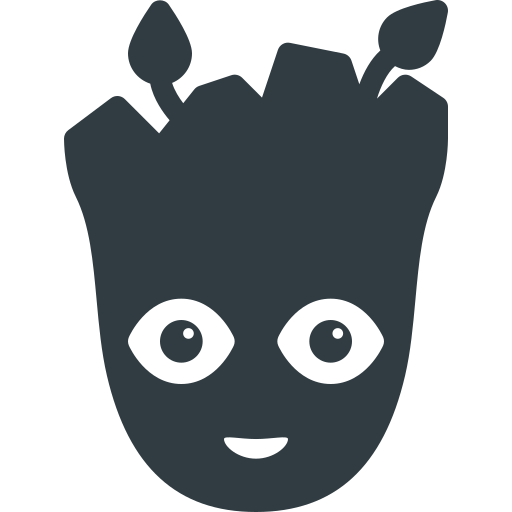
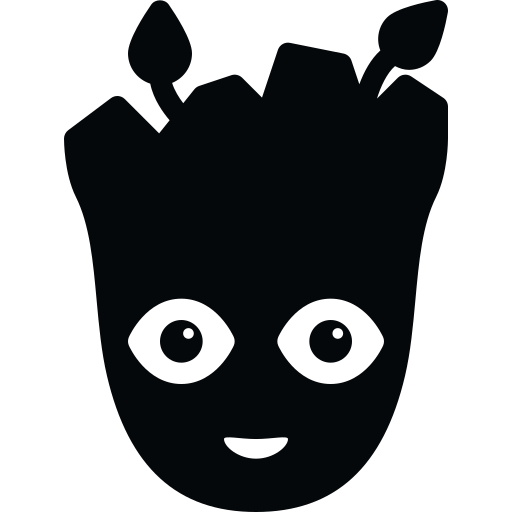
Add dropdown menus and some header and footer styles

diff --git a/final/css/styles.css b/final/css/styles.css
@@ -1,4 +1,4 @@
-/* JM, 12/04/25 */
+/* JM, 12/06/25 */
 /* Final Project, WEB 238 */
 
 :root {
@@ -6,6 +6,13 @@
   font-family: "Ubuntu", "Segoe UI", Tahoma, Geneva, Verdana, sans-serif;
   box-sizing: border-box;
   line-height: 1.4;
+
+  --dark-moss-green: hsl(88, 40%, 26%);
+  --dark-olive-green: hsl(85, 33%, 33%);
+  --coffee: hsl(28, 28%, 32%);
+  --artichoke: hsl(40, 15%, 54%);
+  --boy-red: hsl(44, 21%, 34%);
+  --black: hsl(0, 0%, 7%);
 }
 
 *,
@@ -48,6 +55,7 @@ figcaption {
 
 #wrapper {
   max-width: 100%;
+  overflow-y: hidden;
   display: grid;
   grid-template-columns: [left] auto [content] 1fr auto [right];
 }
@@ -83,12 +91,188 @@ main > aside {
 
 /* Header */
 
+header,
+footer {
+  display: grid;
+  grid-template-columns: 1fr 1fr 1fr;
+  justify-items: center;
+  align-items: center;
+  background-color: var(--coffee);
+}
+
 .baby-groot-icon {
   width: 5em;
   height: 5em;
   aspect-ratio: 1;
+  padding: 0.5em;
 
-  /* FIXME: Center it */
+  border-radius: 100%;
+  background-color: linear-gradient(
+    135deg,
+    var(--artichoke) 0%,
+    var(--boy-red) 100%
+  );
+  box-shadow: 0 0 0 1em var(--boy-red), 0 0 0.2em 1.1em var(--artichoke);
+}
+
+header .baby-groot-icon {
+  border-radius: 10% 10% 100% 100%;
+}
+
+footer .baby-groot-icon {
+  border-radius: 100% 100% 10% 10%;
+}
+
+/* Dropdown module */
+
+.dropdown-menu {
+  position: relative;
+}
+
+.dropdown-menu__hamburger {
+  position: relative;
+  z-index: 10;
+
+  --hamburger-size: 3em;
+  width: var(--hamburger-size);
+  height: var(--hamburger-size);
+  aspect-ratio: 1;
+
+  padding: 0;
+  margin: 0;
+  border: none;
+  background-color: transparent;
+
+  text-indent: 10rem;
+  text-align: center;
+
+  cursor: pointer;
+
+  overflow: hidden;
+}
+
+.bar {
+  display: block;
+  position: relative;
+  left: 0.25em;
+
+  width: calc(var(--hamburger-size) - 0.5em);
+  height: 0.1875rem;
+  margin: calc(var(--hamburger-size) / 4) 0;
+  border-radius: 0.5rem;
+  background-color: var(--black);
+
+  transition: all 0.3s ease;
+}
+
+/* Middle bar */
+.dropdown-menu__hamburger.is-open .bar:nth-child(2) {
+  opacity: 0;
+}
+
+/* Top bar */
+.dropdown-menu__hamburger.is-open .bar:nth-child(1) {
+  transform: translateY(calc((var(--hamburger-size) / 4) - 0.25em))
+    rotate(45deg);
+}
+
+/* Bottom bar */
+.dropdown-menu__hamburger.is-open .bar:nth-child(3) {
+  transform: translateY(calc(-1 * (var(--hamburger-size) / 2.5) - 0.25em))
+    rotate(-45deg);
+}
+
+.dropdown-menu__menu {
+  list-style: none;
+  position: absolute;
+  right: 0;
+  z-index: 1000;
+
+  padding: 0;
+  margin: 0;
+
+  white-space: nowrap;
+
+  visibility: hidden;
+  opacity: 0;
+  transition: opacity 0.15s ease-out;
+}
+
+.dropdown-menu__menu.above {
+  transform: translateY(-9em);
+}
+
+.dropdown-menu__menu.is-open {
+  visibility: visible;
+  opacity: 1;
+}
+
+/* Arrow connecting to the hamburger */
+.dropdown-menu__menu.is-open::before {
+  content: "";
+  width: 0;
+  height: 0;
+  display: block;
+  aspect-ratio: 1;
+  border: 0.8em solid;
+
+  border-color: transparent transparent var(--boy-red) transparent;
+
+  position: absolute;
+  top: 0;
+  right: 0;
+  transform: translate(-0.25em, -1.6em);
+}
+
+.dropdown-menu__menu.above::before {
+  display: none;
+}
+
+.dropdown-menu__menu.above.is-open::after {
+  content: "";
+  width: 0;
+  height: 0;
+  display: block;
+  aspect-ratio: 1;
+  border: 0.8em solid;
+
+  border-color: var(--boy-red) transparent transparent transparent;
+
+  position: absolute;
+  bottom: 0;
+  right: 0;
+  transform: translate(-0.25em, -1.6em);
+}
+
+.dropdown-menu__menu > li > a {
+  display: block;
+  padding: 0.75em 1.5em;
+  font-size: 1.25em;
+  background-color: var(--boy-red);
+  color: var(--black);
+  text-decoration: none;
+
+  text-align: center;
+}
+
+.dropdown-menu__menu > li:first-of-type > a {
+  border-top-left-radius: 0.5em;
+  border-top-right-radius: 0.25em 0.5em;
+}
+
+.dropdown-menu__menu > li:last-of-type > a {
+  border-bottom-left-radius: 0.5em;
+  border-bottom-right-radius: 0.5em;
+}
+
+.dropdown-menu__menu > li > a:hover {
+  background-color: var(--artichoke);
+  color: #fff;
+}
+
+.dropdown-menu__menu > li > a:active {
+  background-color: var(--coffee);
+  color: #fff;
 }
 
 /* Main */
@@ -140,11 +324,11 @@ main > aside {
       border: none;
       background-image: linear-gradient(
         135deg,
-        hsla(210, 100%, 56%, 0.95) 0%,
-        hsla(233, 68%, 56%, 0.95) 100%
+        var(--artichoke) 0%,
+        var(--boy-red) 100%
       );
-      box-shadow: 0.05em 0.05em 0.25em hsla(233, 68%, 56%, 0.9),
-        -0.05em -0.05em 0.25em hsla(210, 100%, 56%, 0.9);
+      box-shadow: 0.05em 0.05em 0.25em var(--artichoke),
+        -0.05em -0.05em 0.25em var(--boy-red);
       color: #222d;
       border-radius: 0.5em;
       cursor: pointer;
@@ -241,11 +425,16 @@ button.translate {
 
   main {
     display: grid;
-    grid-template-columns: [left] 1fr [content] 70vw 1fr [right];
+    grid-template-columns: [left] 1fr [sidebar] 20vw [content] 50vw 1fr [right];
+    gap: 3em;
   }
 
   #wrapper > *,
   main > * {
     grid-column: content;
+  }
+
+  .about-the-author {
+    grid-column: sidebar;
   }
 }

diff --git a/final/index.html b/final/index.html
@@ -1,25 +1,33 @@
 <!DOCTYPE html>
-<!-- JM, 12/04/25 -->
+<!-- JM, 12/06/25 -->
 <!-- Final Project, WEB 238 -->
 <html lang="en">
     <head>
         <meta charset="UTF-8">
         <meta name="viewport" content="width=device-width, initial-scale=1.0">
-        <title>Final</title>
+        <title>I am Groot</title>
 
         <link rel="preconnect" href="https://fonts.googleapis.com">
         <link rel="preconnect" href="https://fonts.gstatic.com" crossorigin>
         <link href="https://fonts.googleapis.com/css2?family=Bungee+Inline&family=Ubuntu:ital,wght@0,300;0,400;0,500;0,700;1,300;1,400;1,500;1,700&display=swap" rel="stylesheet">
         <link rel="stylesheet" href="./css/styles.css">
+
         <script src="https://code.jquery.com/jquery-3.7.1.js" integrity="sha256-eKhayi8LEQwp4NKxN+CfCh+3qOVUtJn3QNZ0TciWLP4=" crossorigin="anonymous"></script>
         <script src="js/script.js" defer></script>
     </head>
     <body>
         <div id="wrapper">
             <header>
+                <span><!-- Filler element to center --></span>
                 <img src="./assets/baby-groot.png" alt="Baby Groot icon." class="baby-groot-icon">
-                <nav>
-                    <menu>
+                <nav class="dropdown-menu">
+                    <button class="dropdown-menu__hamburger">
+                        <span class="bar"></span>
+                        <span class="bar"></span>
+                        <span class="bar"></span>
+                        Open Menu
+                    </button>
+                    <menu class="dropdown-menu__menu">
                         <li><a href="#IamGroot" class="icon-before author">I am Groot</a></li>
                         <li><a href="#IAmGroot" class="icon-before article">I am Groot</a></li>
                         <li></li>
@@ -27,9 +35,8 @@
                 </nav>
             </header>
             <main>
-                <section id="IamGroot" class="about-the-author">
+                <aside id="IamGroot" class="about-the-author">
                     <h2 class="icon-before author">I am Groot</h2>
-                    <div class="media">
                         <div class="carousel__container">
                             <ul class="carousel">
                                 <li class="slide"><img src="./assets/groot-author-photo.jpg" alt="Groot author photo."></li>
@@ -46,10 +53,20 @@
                             I am Groot. I am GROOT. I am groot. We are groot. I am Groot.
                             I am groot. We are groot. I am Groot. I am Groot.
                         </p>
-                    </div>
-                </section>
+                </aside>
                 <section id="IAmGroot" class="blog-posts">
                     <h2 class="icon-before article">I am Groot</h2>
+                    <template id="blog-post">
+                        <article>
+                            <h3>I am Groot</h3>
+                            <span class="author icon-before">Groot</span>
+                            <p>
+                                I am Groot. I am groot. I am groot. I AM groot. I Am groot. I am GROOT. I am groot.
+                                I am groot. I am groot. I am groot. I am groot. I AM groot. I AM GROOT.
+                            </p>
+                            <a href="#">I am Groot &rarr;</a>
+                        </article>
+                    </template>
                     <article>
                         <h3>I am Groot</h3>
                         <span class="author icon-before">Groot</span>
@@ -81,6 +98,20 @@
             </main>
             <footer>
                 <button class="colophon__open" title="Open Colophon"><span class="icon-before article">I am Groot</span></button>
+                <img src="./assets/baby-groot.png" alt="Baby Groot icon." class="baby-groot-icon">
+                <nav class="dropdown-menu">
+                    <menu class="dropdown-menu__menu above">
+                        <li><a href="#IamGroot" class="icon-before author">I am Groot</a></li>
+                        <li><a href="#IAmGroot" class="icon-before article">I am Groot</a></li>
+                        <li></li>
+                    </menu>
+                    <button class="dropdown-menu__hamburger">
+                        <span class="bar"></span>
+                        <span class="bar"></span>
+                        <span class="bar"></span>
+                        Open Menu
+                    </button>
+                </nav>
                 <dialog class="colophon">
                     <button class="colophon__close">Close</button>
                     <button class="translate"><span class="icon-before translate">Translate</span></button>

diff --git a/final/js/script.js b/final/js/script.js
@@ -1,5 +1,14 @@
-// JM, 12/04/25
+// JM, 12/06/25
 // Final Project, WEB 238
+
+// Hamburger Menu - User Interaction
+
+$('.dropdown-menu__hamburger').each(function() {
+    $(this).on('click', function() {
+        $(this).toggleClass('is-open');
+        $(this).siblings('.dropdown-menu__menu').toggleClass('is-open');
+    });
+});
 
 // Carousel - User Interaction / Other
 const container = $('.carousel__container');
@@ -92,9 +101,7 @@ startCarousel();
 
 // Translate Colophon - User Interaction
 
-$("button.translate").click(function() {
-    $(".untranslated, .translated").toggle();
-});
+$("button.translate").click(() => $(".untranslated, .translated").toggle());
 
 // Colophon - User-initiated Animation
 $(".colophon__open").click(function() {
